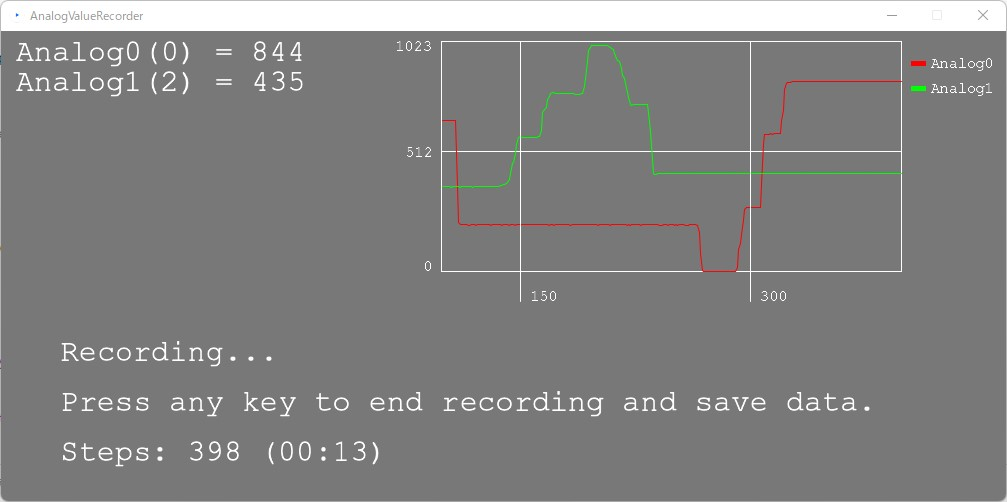
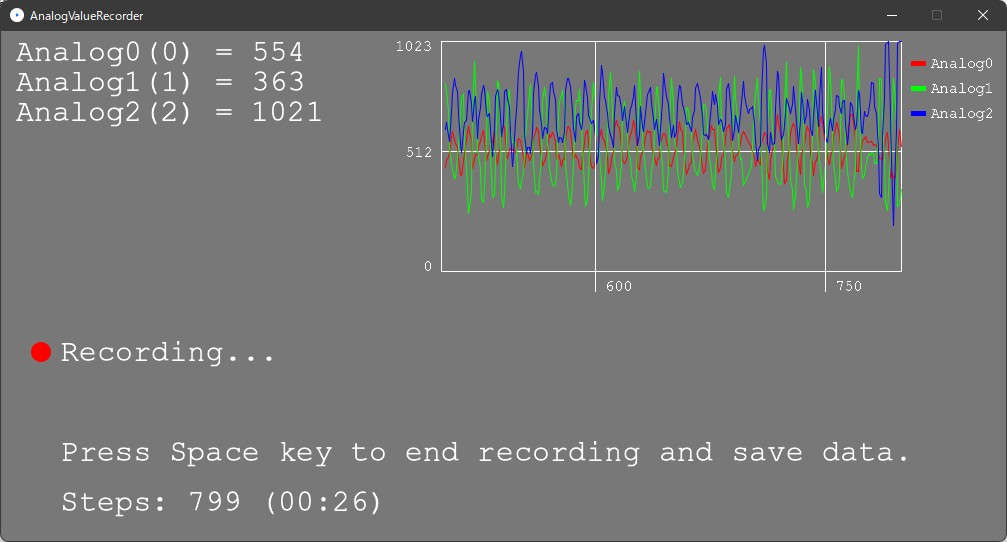
READMEの更新

diff --git a/README.md b/README.md
@@ -33,3 +33,8 @@ int[] pins = {}; //Enter the pin number to record the analog input. The maximum 
 
 ### 確認モード
 **Cキー**を押して開始します。グラフ描画をしますが、記録データを出力しません。動作確認用のモードです。
+
+### レビューモード
+記録モードを終了した直後に**Rキー**を押して開始します。最後に記録したデータのグラフを表示します。数字キーの1~9（テンキーではない）を押すと各データを表示/非表示します。
+
+![Review mode](README_Images/ReviewMode.jpg)
